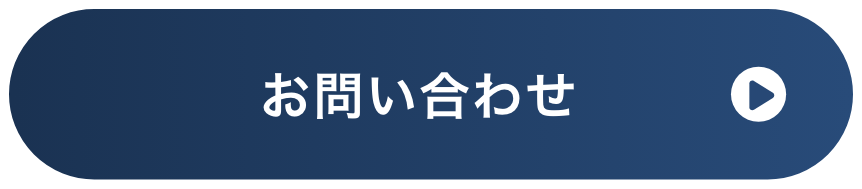
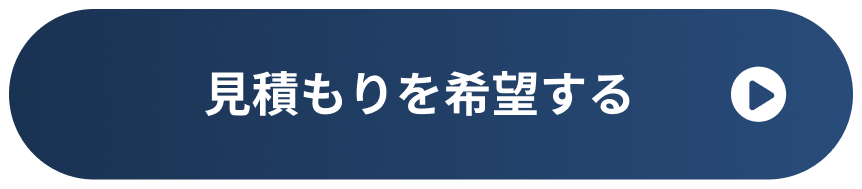
a

Changed region(s): [[0.2413, 0.3704, 0.7541, 0.6349], [0.8747, 0.3439, 0.9049, 0.3704]]

diff --git a/public/index.html b/public/index.html
@@ -41,11 +41,16 @@ height="0" width="0" style="display:none;visibility:hidden"></iframe></noscript>
 
 <header id="cb-header" class="cb-header">
       <div class="cb-header__inner">
-        <h1 class="cb-header__logo">
-          <a href="#cb-sum">
-            <img src="/assets/img/logo.png" class="" alt="CASTER BIZ accounting">
-          </a>
-        </h1>
+        <div class="cb-header__logo-wrap">
+          <h1 class="cb-header__logo">
+            <a href="#cb-sum">
+              <img src="/assets/img/logo.png" class="" alt="CASTER BIZ accounting">
+            </a>
+          </h1>
+          <div>
+            <img src="/assets/img/jpx_logo.png" class="" alt="当社は東京グロース上場企業です">
+          </div>
+        </div>
 
         <!-- SPのみ表示 -->
         <div class="cb-header__sp">
@@ -60,7 +65,7 @@ height="0" width="0" style="display:none;visibility:hidden"></iframe></noscript>
             <div class="cb-header__cta-wrap">
               <a href="#c-form">
                 <div class="cb-header__cta-txt">
-                  お問い合わせ
+                  見積もりを希望
                 </div>
               </a>
             </div>
@@ -285,7 +290,7 @@ height="0" width="0" style="display:none;visibility:hidden"></iframe></noscript>
                       <img src="/assets/img/kaike_e_1.png" class="" alt="">
                     </div>
                     <p class="">
-                      実務経験3年以上の即戦力経理が、記帳から月次決算まで柔軟に対応。貴社は本来のコア業務に集中できます。
+                      簿記2級以上や経理経験5年以上の即戦力人材が、記帳から月次決算まで柔軟に対応。貴社は本来のコア業務に集中できます。
                     </p>
                   </div>
                 </div>
@@ -356,149 +361,6 @@ height="0" width="0" style="display:none;visibility:hidden"></iframe></noscript>
             </div>
           </div>
 
-        </div>
-      </section>
-
-
-      <!-- cb-mock -->
-      <section id="cb-mock" class="cb-mock">
-        <div class="cb-mock__inner">
-
-          <h2 class="">
-            累計導入実績<em>6000</em>社以上
-          </h2>
-
-          <div class="cb-mock__ttl">
-          手間のかかる経理業務は<br><em>まるっとお任せ！</em>
-          </div>
-          <div class="cb-mock__txt">
-            <img src="/assets/img/cta_txt.png" class="" alt="">
-          </div>
-          <div class="cb-mock__cont">
-            <div class="cb-mock__img">
-              <img src="/assets/img/shiryo.png" class="" alt="">
-            </div>
-            <div class="cb-mock__item">
-              <h3 class="">
-                この資料でわかること
-              </h3>
-              <div class="cb-mock__item-list">
-                <ul class="">
-                  <li>依頼できる業務</li>
-                  <li>ご活用事例</li>
-                  <li>納品までの流れ</li>
-                </ul>
-                <ul class="">
-                  <li>対応チーム体制</li>
-                  <li>プラン詳細</li>
-                </ul>
-              </div>
-            </div>
-          </div>
-
-        </div>
-      </section>
-
-      <!-- cta -->
-      <div class="cb-mock__cta-wrap">
-        <div class="cb-mock__cta-inner">
-          <div class="cb-mock__cta-btn-wrap">
-            <div class="cb-mock__cta cb-cta">
-              <a href="#c-form">
-                <img src="/assets/img/cta_orange.png" class="" alt="無料で資料をダウンロード">
-              </a>
-            </div>
-            <div class="cb-mock__cta cb-cta">
-              <a href="#c-form">
-                <img src="/assets/img/cta_navy.png" class="" alt="個別相談を予約する">
-              </a>
-            </div>
-          </div>
-        </div>
-      </div>
-
-      <!-- cb-det -->
-      <section id="cb-det" class="cb-det">
-        <div class="cb-det__inner">
-       　　<h2 class="">
-            必要な課題と体制に合わせて<br><em>選べるプラン</em>
-          </h2>
-
-          <div class="cb-det__cont">
-            <!-- BPOプラン -->
-            <div class="cb-det__item is-active">
-              <div class="cb-det__item-head">
-                CASTER BIZ accounting<br class="sp"> BPO<br><b>経理の部分作業を巻き取り</b>
-              </div>
-              <div class="cb-det__item-body">
-                <dl>
-                  <dt>契約時間</dt>
-                  <dd>50時間～/月
-                </dl>
-                <dl>
-                  <dt>契約期間</dt>
-                  <dd>6か月 or 12か月
-                </dl>
-                <dl>
-                  <dt>月次締め</dt>
-                  <dd>不可
-                </dl>
-                <dl>
-                  <dt>フロント</dt>
-                  <dd>実務経験3年以上
-                </dl>
-                <div class="cb-det__body-box">
-                  <h3 class="">
-                    サービス特徴
-                  </h3>
-                  <p class="">
-                    貴社内に経理主担当が必要です。<br>
-                    「経費精算」「支払請求書」「売上請求書」「仕訳登録」など、機械的に処理ができる業務を受託します。
-                  </p>
-                </div>
-              </div>
-            </div>
-            <!-- ACCプラン -->
-            <div class="cb-det__item">
-              <div class="cb-det__item-head">
-                CASTER BIZ accounting<br><b>月次をまるごと巻き取り</b>
-              </div>
-              <div class="cb-det__item-body">
-                <dl>
-                  <dt>契約時間</dt>
-                  <dd>30時間～/月
-                </dl>
-                <dl>
-                  <dt>契約期間</dt>
-                  <dd>6か月 or 12か月
-                </dl>
-                <dl>
-                  <dt>月次締め</dt>
-                  <dd>可能
-                </dl>
-                <dl>
-                  <dt>フロント</dt>
-                  <dd>実務経験5年以上
-                </dl>
-                <div class="cb-det__body-box">
-                  <h3 class="">
-                    サービス特徴
-                  </h3>
-                  <p class="">
-                    経理部主担当レベルのチームが伴走。<br>
-                    中小企業から上場子会社まで、月次決算締めに至るまで一括対応。業務の効率化提案やシステム導入支援にも対応します。
-                  </p>
-                </div>
-              </div>
-            </div>
-
-          </div>
-          <div class="cb-det__txt2">
-          <picture>
-            <source media="(max-width: 767px)" srcset="/assets/img/fuki_sp.png">
-            <img loading="lazy" src="/assets/img/fuki_pc.png" alt="30時間以上のご契約など、ご要望に合わせたプラン作成も可能なので、お気軽にご相談ください。">
-          </picture>
-          </div>
         </div>
       </section>
 
@@ -652,11 +514,104 @@ height="0" width="0" style="display:none;visibility:hidden"></iframe></noscript>
         </div>
       </section>
 
+      <!-- cta -->
+      <div class="cb-mock__cta-wrap">
+        <div class="cb-mock__cta-inner">
+          <div class="cb-mock__cta-btn-wrap">
+            <div class="cb-mock__cta cb-cta">
+              <a href="#c-form">
+                <img src="/assets/img/cta_orange.png" class="" alt="無料で資料をダウンロード">
+              </a>
+            </div>
+            <div class="cb-mock__cta cb-cta">
+              <a href="#c-form">
+                <img src="/assets/img/cta_navy.png" class="" alt="個別相談を予約する">
+              </a>
+            </div>
+          </div>
+        </div>
+      </div>
+
+      <!-- cb-det -->
+      <section id="cb-det" class="cb-det">
+        <div class="cb-det__inner">
+       　　<h2 class="">
+       　　　　課題とご委託業務に合わせて<br><em>柔軟にご提案</em>
+          </h2>
+
+          <div class="cb-det__cont">
+            <!-- BPOプラン -->
+            <div class="cb-det__item is-active">
+              <div class="cb-det__item-head">
+                月次経理を丸ごとご支援するパターン
+              </div>
+              <div class="cb-det__item-body">
+                <dl>
+                  <dt>契約時間</dt>
+                  <dd>30時間～/月
+                </dl>
+                <dl>
+                  <dt>契約期間</dt>
+                  <dd>6か月もしくは12か月
+                </dl>
+                <dl>
+                  <dt>スキル</dt>
+                  <dd>簿記2級以上もしくは経理経験5年以上
+                </dl>
+                <div class="cb-det__body-box">
+                  <h3 class="">
+                    サービス特徴
+                  </h3>
+                  <p class="">
+                    経理部主担当クラスとして伴走。<br>中小企業から上場子会社まで、月次決算締めに至るまで一括対応。業務の効率化提案やシステム導入支援をご支援。
+                  </p>
+                </div>
+              </div>
+            </div>
+            <!-- ACCプラン -->
+            <div class="cb-det__item">
+              <div class="cb-det__item-head">
+                部分的な経理業務をご支援するパターン
+              </div>
+              <div class="cb-det__item-body">
+                <dl>
+                  <dt>契約時間</dt>
+                  <dd>50時間～/月
+                </dl>
+                <dl>
+                  <dt>契約期間</dt>
+                  <dd>6ヶ月もしくは12ヶ月
+                </dl>
+                <dl>
+                  <dt>スキル</dt>
+                  <dd>簿記2級以上もしくは経理経験5年以上
+                </dl>
+                <div class="cb-det__body-box">
+                  <h3 class="">
+                    サービス特徴
+                  </h3>
+                  <p class="">
+                    貴社経理担当者のサポートとして伴走。<br>「経費精算」「支払請求書」「売上請求書」「仕訳登録」など、部分的な定型業務をご支援。
+                  </p>
+                </div>
+              </div>
+            </div>
+
+          </div>
+          <div class="cb-det__txt2">
+          <picture>
+            <source media="(max-width: 767px)" srcset="/assets/img/fuki_sp.png">
+            <img loading="lazy" src="/assets/img/fuki_pc.png" alt="30時間以上のご契約など、ご要望に合わせたプラン作成も可能なので、お気軽にご相談ください。">
+          </picture>
+          </div>
+        </div>
+      </section>
+
       <!-- cb-riyo -->
       <section id="cb-riyo" class="cb-riyo">
         <div class="cb-riyo__inner">
           <h2 class="">
-            プラン別ご利用事例
+            ご利用事例
           </h2>
           <p class="">
             効率的にご利用頂いている企業様の<br class="sp">内訳例をご紹介。
@@ -1064,6 +1019,44 @@ height="0" width="0" style="display:none;visibility:hidden"></iframe></noscript>
         </div>
       </section> 
 
+            <!-- cb-mock -->
+            <section id="cb-mock" class="cb-mock">
+              <div class="cb-mock__inner">
+      
+                <h2 class="">
+                  累計導入実績<em>6000</em>社以上
+                </h2>
+      
+                <div class="cb-mock__ttl">
+                手間のかかる経理業務は<br><em>まるっとお任せ！</em>
+                </div>
+                <div class="cb-mock__txt">
+                  <img src="/assets/img/cta_txt.png" class="" alt="">
+                </div>
+                <div class="cb-mock__cont">
+                  <div class="cb-mock__img">
+                    <img src="/assets/img/shiryo.png" class="" alt="">
+                  </div>
+                  <div class="cb-mock__item">
+                    <h3 class="">
+                      この資料でわかること
+                    </h3>
+                    <div class="cb-mock__item-list">
+                      <ul class="">
+                        <li>依頼できる業務</li>
+                        <li>ご活用事例</li>
+                        <li>納品までの流れ</li>
+                      </ul>
+                      <ul class="">
+                        <li>対応チーム体制</li>
+                        <li>プラン詳細</li>
+                      </ul>
+                    </div>
+                  </div>
+                </div>
+      
+              </div>
+            </section>
 
       <!-- c-form Hubspot  -->
       <div id="c-form" class="c_form">
